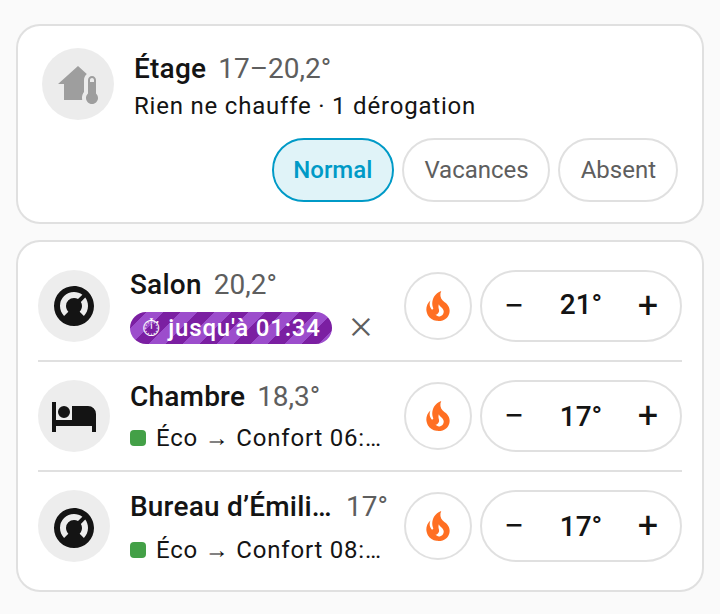
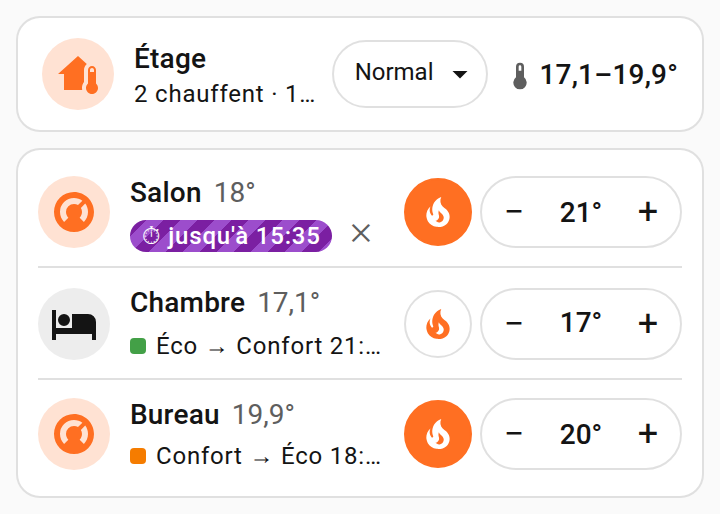
Docs: the screenshot of the Rooms and Heating summary cards, as they are now

diff --git a/docs/installation.fr.md b/docs/installation.fr.md
@@ -69,7 +69,7 @@ détail du thermostat.
 
 ## 5. Ajouter une liste des pièces et un résumé (facultatif)
 
-![Sur un téléphone, le résumé d'un étage, puis la liste de ses pièces : le salon a une dérogation jusqu'à 01:34](media/rooms-summary.png)
+![Sur un téléphone, le résumé d'un étage, puis la liste de ses pièces : le salon a une dérogation jusqu'à 15:35](media/rooms-summary.png)
 
 Ces deux cartes sont des prototypes. Elles conviennent aux tableaux de bord qui ont beaucoup de
 pièces, par exemple une tuile par étage qui ouvre une fenêtre avec ses pièces.

diff --git a/docs/installation.md b/docs/installation.md
@@ -65,7 +65,7 @@ To edit the thermostat's week, click *Edit its week* in the more-info dialog.
 
 ## 5. Add a list of rooms and a summary (optional)
 
-![On a phone, the summary of a floor, then a list of its rooms: the living room has an override until 01:34](media/rooms-summary.png)
+![On a phone, the summary of a floor, then a list of its rooms: the living room has an override until 15:35](media/rooms-summary.png)
 
 These two cards are prototypes. They suit dashboards with many rooms, for example a tile per
 floor that opens a pop-up of its rooms.
